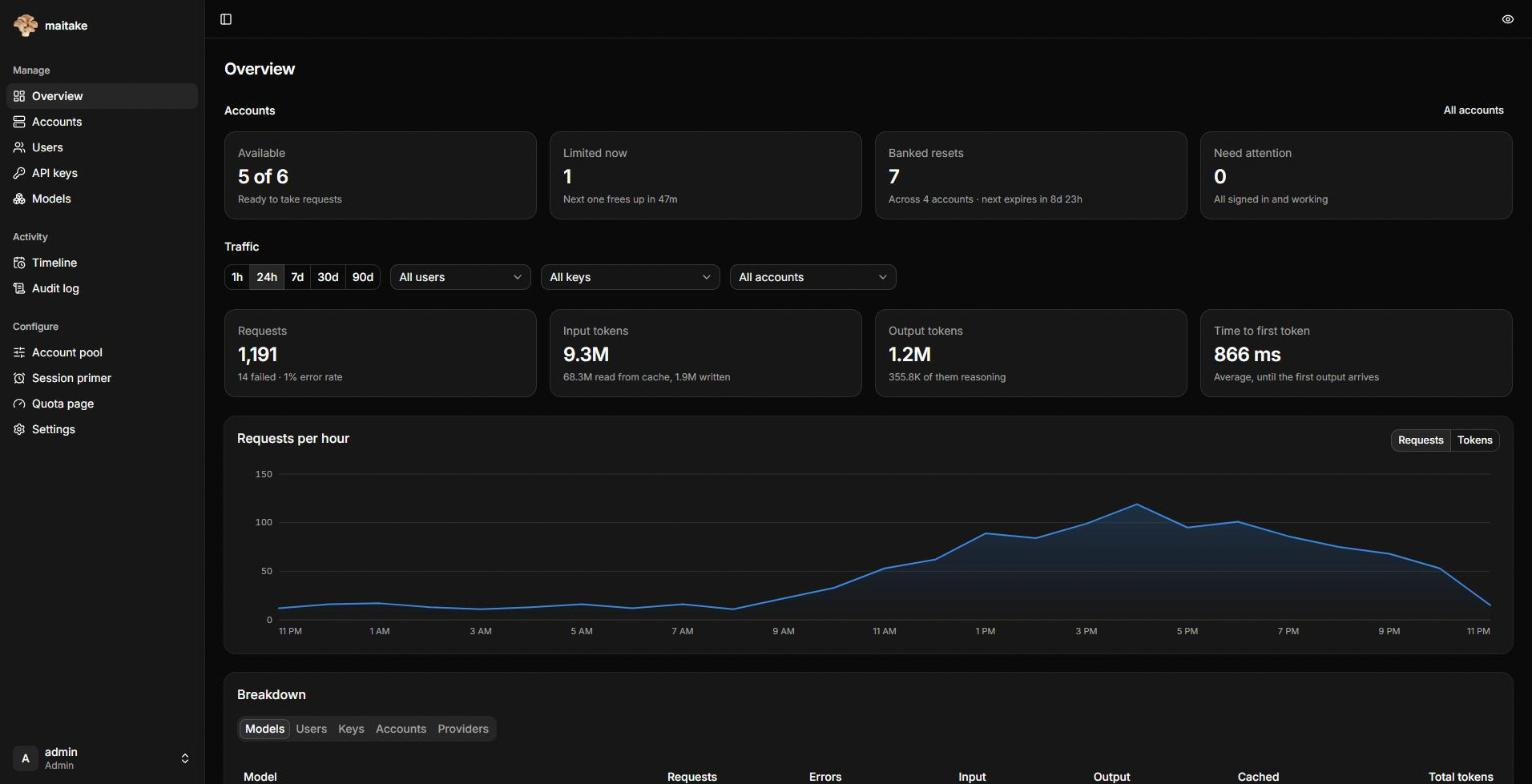
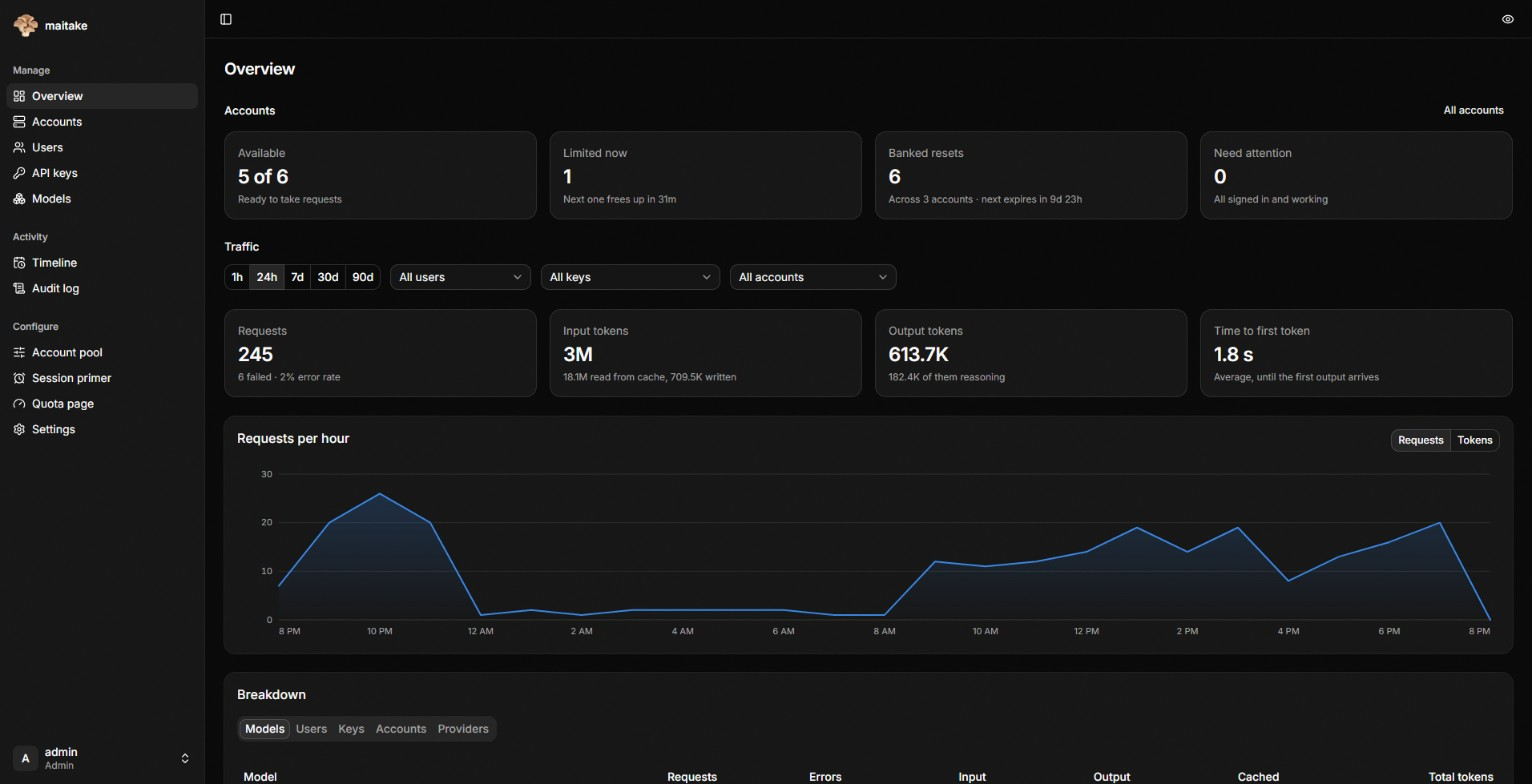
docs: update the dashboard screenshot

diff --git a/README.md b/README.md
@@ -11,7 +11,7 @@
 
 A multi-user proxy that serves AI subscriptions (ChatGPT, Claude and more) as Claude Messages, OpenAI Chat Completions and OpenAI Responses APIs, with a built-in admin dashboard. Inspired by [CLIProxyAPI](https://github.com/router-for-me/CLIProxyAPI).
 
-![The maitake admin dashboard overview, with request stats, requests per hour and per-account limits](docs/overview.jpg)
+![The maitake admin dashboard overview, with account pool status, traffic stats and requests per hour](docs/overview.jpg)
 
 - Per-user API keys with allowed models, rate limits and expiry
 - Account pool with priorities, automatic failover, cooldowns and token refresh
